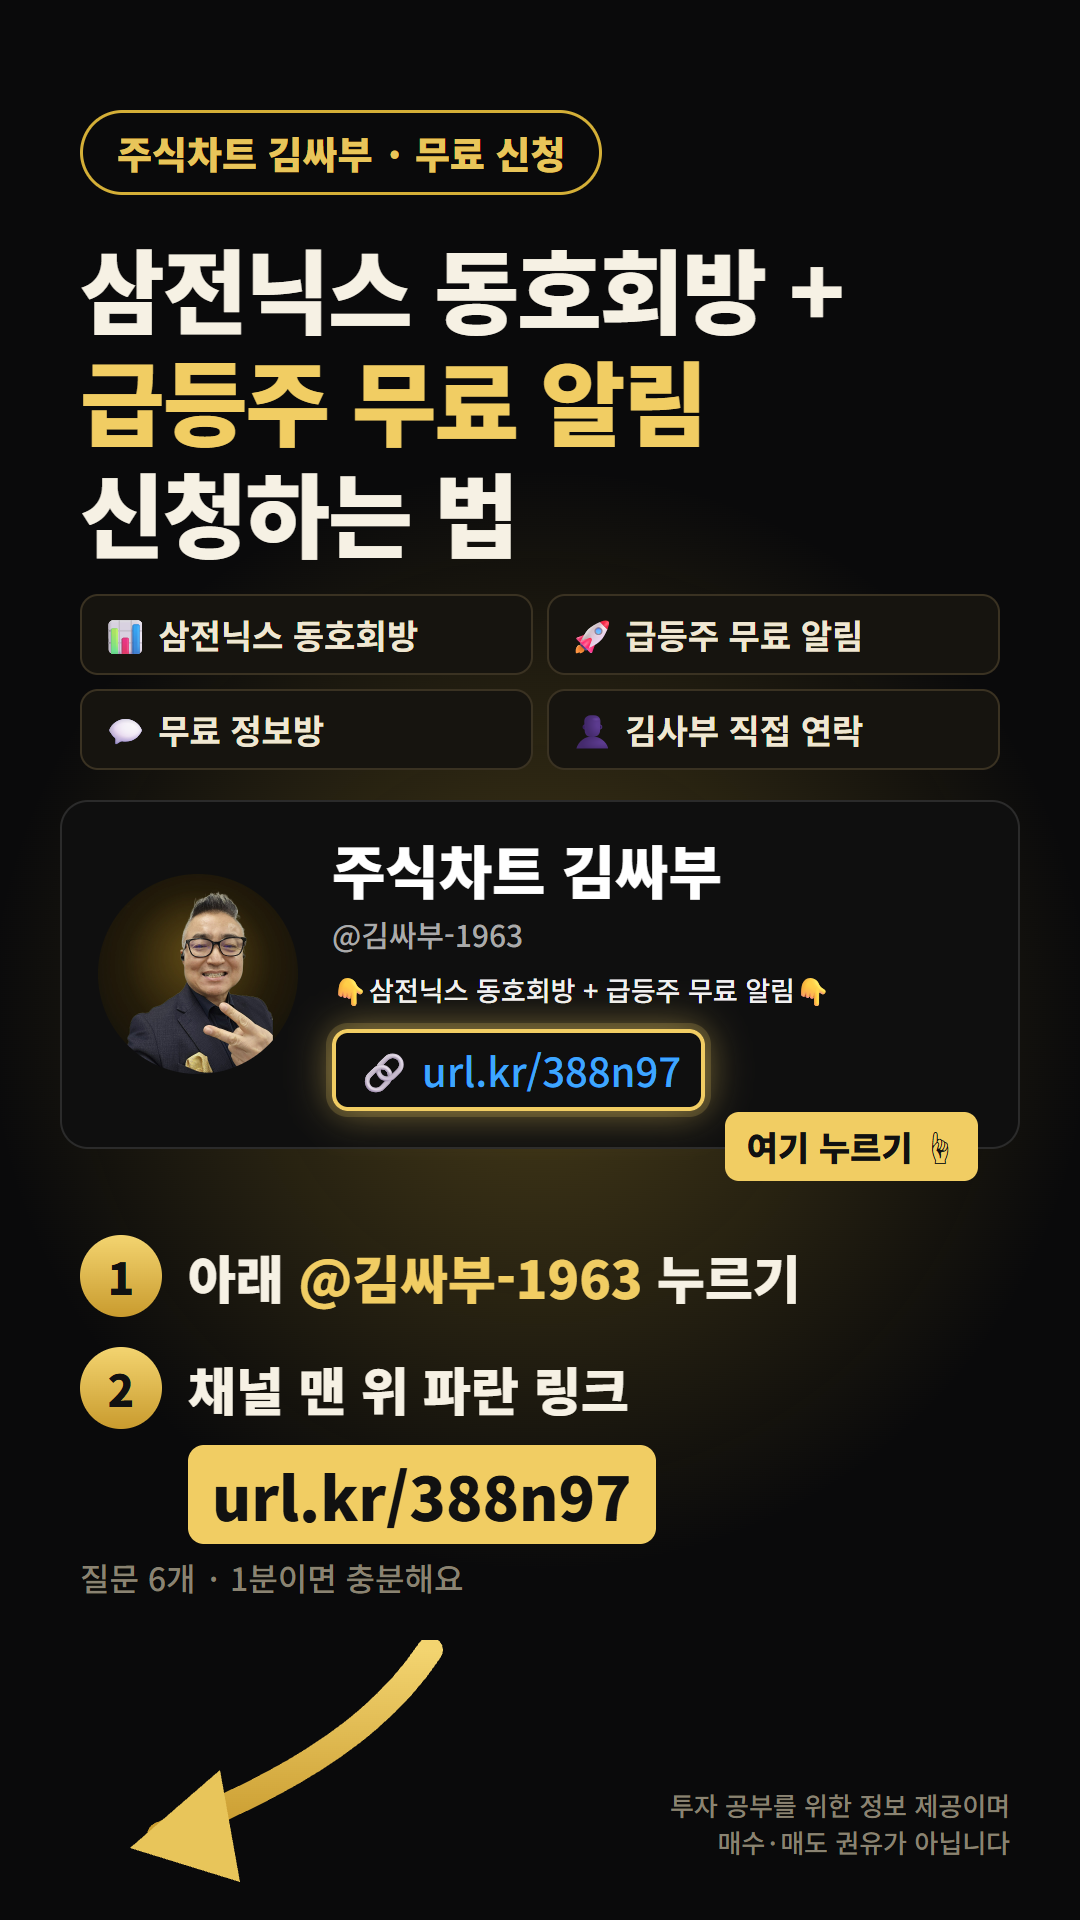
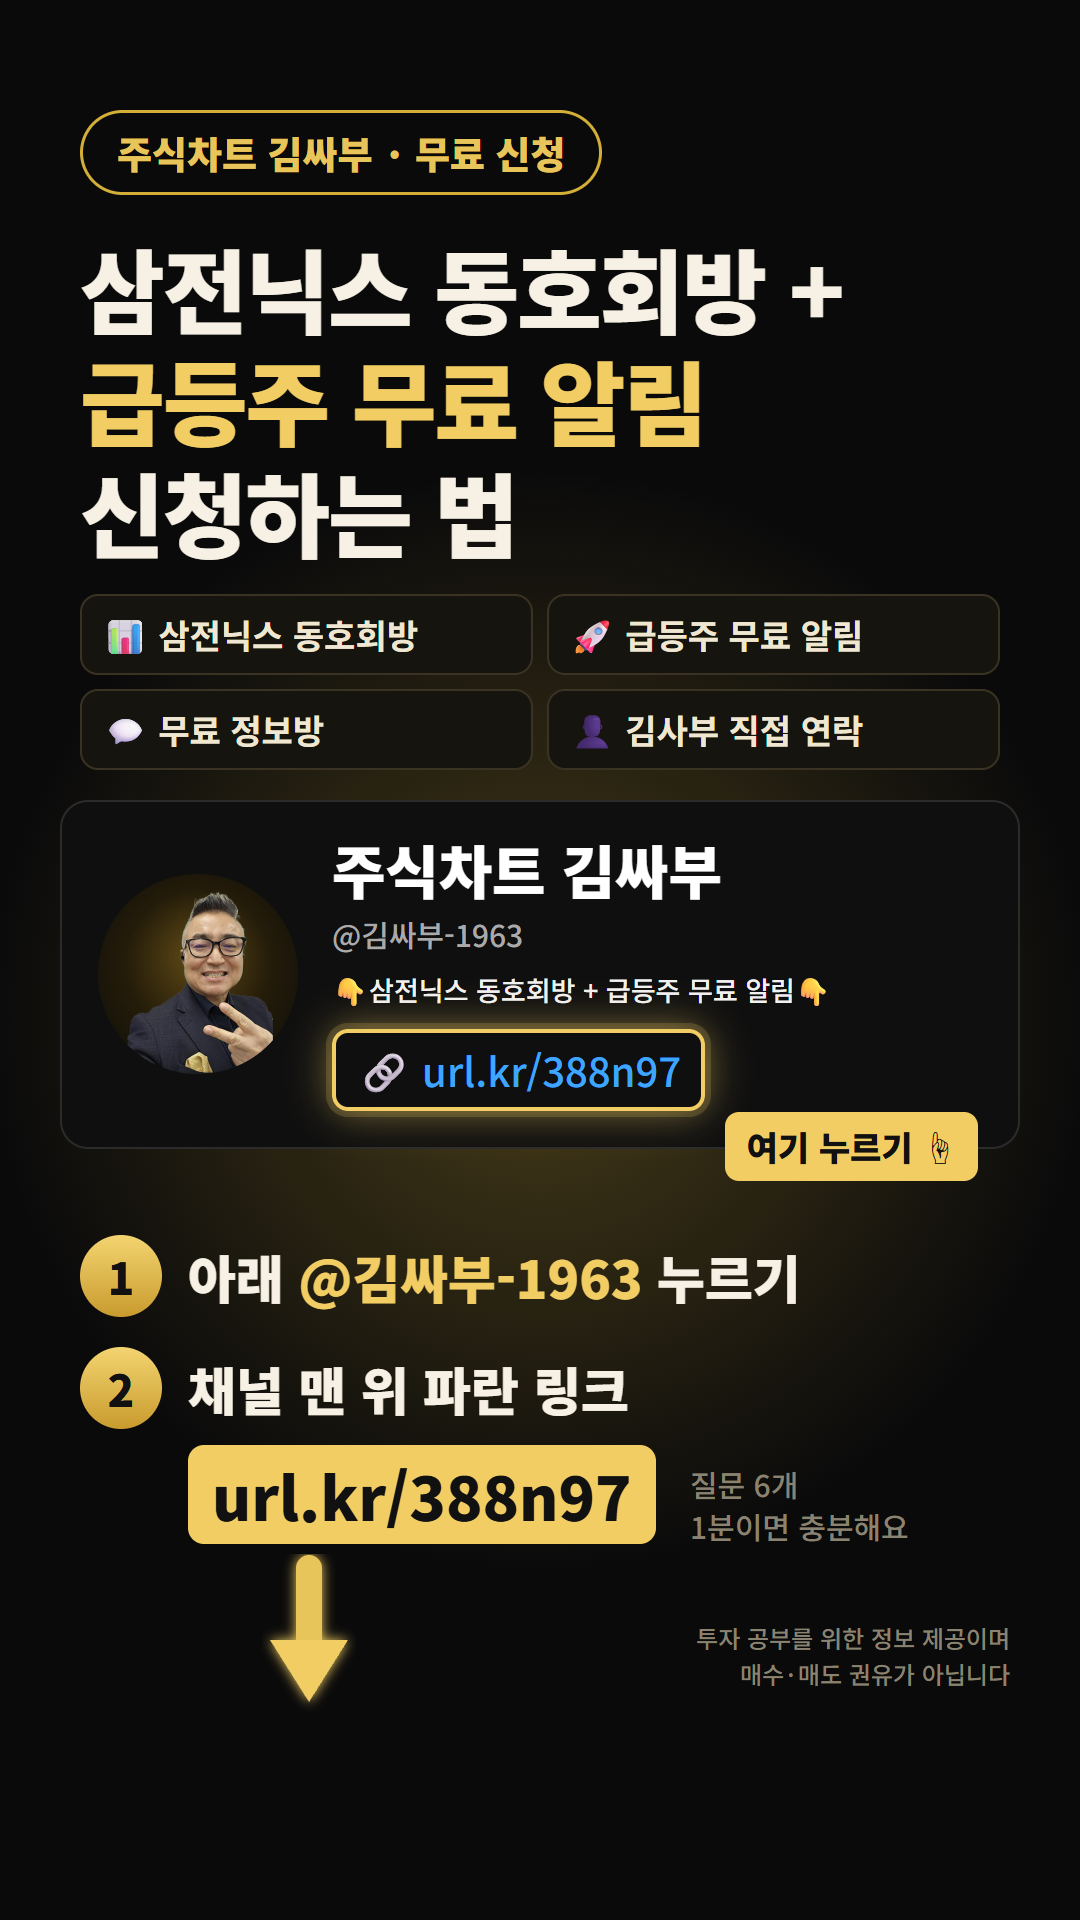
쇼츠 엔딩 화살표 실측 위치로 수정

diff --git a/hook/end_shorts.html b/hook/end_shorts.html
@@ -46,12 +46,16 @@ body{width:1080px;height:1920px}
   <div class="step" style="font-size:52px;margin-bottom:30px"><span class="num" style="width:82px;height:82px;font-size:44px;margin-right:26px">1</span><span>아래 <span class="gold">@김싸부-1963</span> 누르기</span></div>
   <div class="step" style="font-size:52px;margin-bottom:22px"><span class="num" style="width:82px;height:82px;font-size:44px;margin-right:26px">2</span><span>채널 맨 위 파란 링크</span></div>
   <div style="margin-left:108px"><span class="url" style="font-size:60px;padding:6px 24px">url.kr/388n97</span></div>
-  <p class="small" style="font-size:32px;margin-top:16px">질문 6개 · 1분이면 충분해요</p>
+  <p class="small" style="position:absolute;left:610px;top:228px;font-size:30px;line-height:1.4">질문 6개<br>1분이면 충분해요</p>
 </div>
-<svg style="position:absolute;left:70px;top:1640px" width="420" height="270" viewBox="0 0 420 270">
-  <defs><linearGradient id="g" x1="0" x2="0" y1="0" y2="1"><stop offset="0" stop-color="#f3d470"/><stop offset="1" stop-color="#c99b2e"/></linearGradient></defs>
-  <path d="M360 10 C 300 100, 200 150, 90 195" stroke="url(#g)" stroke-width="26" fill="none" stroke-linecap="round"/>
-  <path d="M60 208 L150 130 L170 242 Z" fill="#e8c55a"/>
+<svg style="position:absolute;left:0;top:0" width="1080" height="1920" viewBox="0 0 1080 1920">
+  <defs><linearGradient id="g" x1="0" x2="0" y1="0" y2="1"><stop offset="0" stop-color="#f3d470"/><stop offset="1" stop-color="#c99b2e"/></linearGradient>
+  <filter id="gl"><feGaussianBlur stdDeviation="6" result="b"/><feMerge><feMergeNode in="b"/><feMergeNode in="SourceGraphic"/></feMerge></filter></defs>
+  <!-- 화살표 끝 (309,1702): 모바일 채널 이름 줄(y≈1712) 바로 위. PC 채널 이름 줄은 y≈1810(같은 x) -->
+  <g filter="url(#gl)">
+    <path d="M309 1568 L309 1650" stroke="#e8c55a" stroke-width="26" fill="none" stroke-linecap="round"/>
+    <path d="M309 1702 L270 1640 L348 1640 Z" fill="#f1cd63"/>
+  </g>
 </svg>
-<p class="small" style="position:absolute;right:70px;bottom:60px;font-size:26px;text-align:right">투자 공부를 위한 정보 제공이며<br>매수·매도 권유가 아닙니다</p>
+<p class="small" style="position:absolute;right:70px;top:1620px;font-size:24px;text-align:right;line-height:1.5">투자 공부를 위한 정보 제공이며<br>매수·매도 권유가 아닙니다</p>
 </body></html>

diff --git a/hook/HOOK_SPEC.md b/hook/HOOK_SPEC.md
@@ -38,9 +38,9 @@
 2. 제목 3줄(92px): "삼전닉스 동호회방 +" / (금색) "급등주 무료 알림" / "신청하는 법"
 3. 혜택 칩 2×2: 📊 삼전닉스 동호회방 · 🚀 급등주 무료 알림 · 💬 무료 정보방 · 👤 김사부 직접 연락
 4. 채널 머리 화면 카드: 원형 사진 + "주식차트 김싸부" + "@김싸부-1963" + 설명 첫 줄 + 파란 링크 "🔗 url.kr/388n97"(금색 테두리·빛) + 금색 꼬리표 "여기 누르기 ☝"
-5. 단계: ① 아래 @김싸부-1963 누르기 ② 채널 맨 위 파란 링크 → 금색 상자 "url.kr/388n97", 그 아래 "질문 6개 · 1분이면 충분해요"
-6. 왼쪽 아래를 가리키는 금색 곡선 화살표(쇼츠에서 채널 이름이 뜨는 자리)
-7. 오른쪽 아래 작은 고지 2줄
+5. 단계: ① 아래 @김싸부-1963 누르기 ② 채널 맨 위 파란 링크 → 금색 상자 "url.kr/388n97", 상자 오른쪽에 작은 글씨 "질문 6개 / 1분이면 충분해요"
+6. 금색 수직 화살표(아래 방향): 몸통 x=309, y=1568~1650, 화살촉 끝 (309, 1702). 실측 기준(2026-11-12 사부님 캡처): 모바일 쇼츠의 채널 이름 줄 y≈1712, PC 쇼츠의 채널 이름 줄 y≈1810, 채널 이름 글자 x≈128~331. 화살촉은 모바일 채널 이름 바로 위에서 멈추고, PC에서는 같은 x 아래에 채널 이름이 옵니다.
+7. 오른쪽 작은 고지 2줄(top 1620px, 오른쪽 정렬). PC 쇼츠는 y≈1840 아래를 영상 제목이 덮으므로 고지는 그 위에 둡니다.
 - 쇼츠 화면 아래 약 15%는 유튜브가 제목·채널 이름으로 덮으므로 화살표와 고지 말고는 넣지 않습니다.
 
 ## 4. 롱폼용 16:9 (1920×1080) 배치
